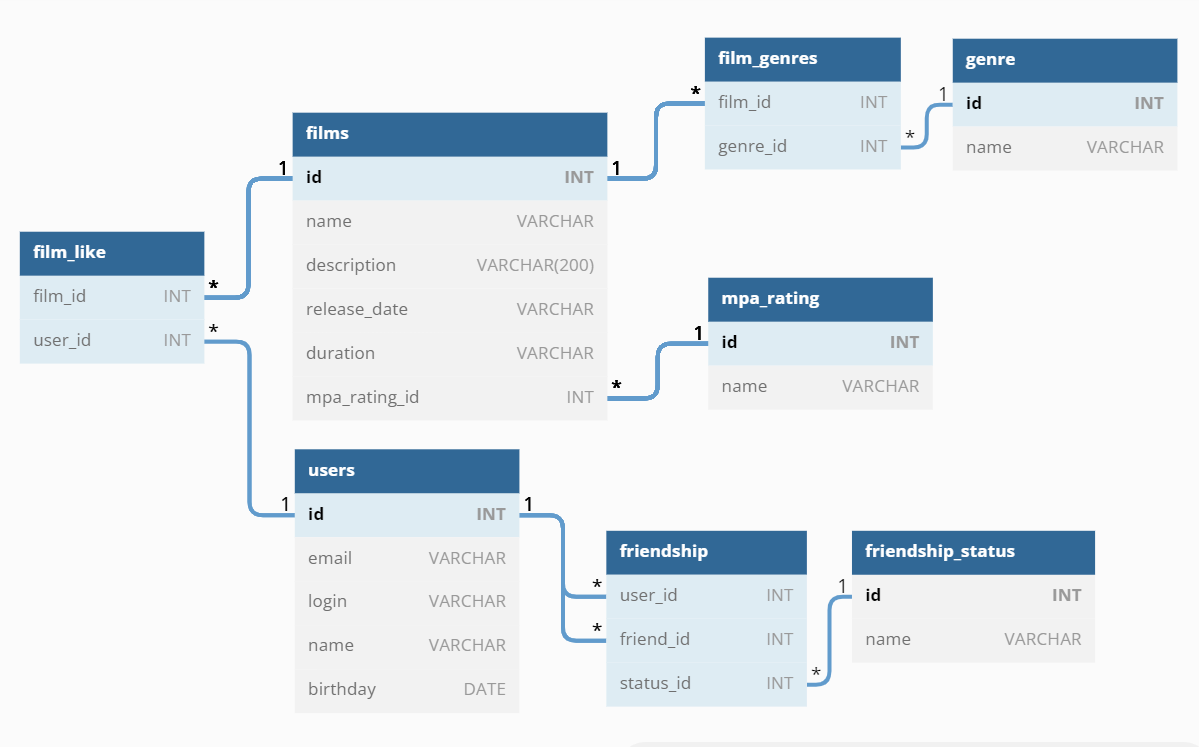
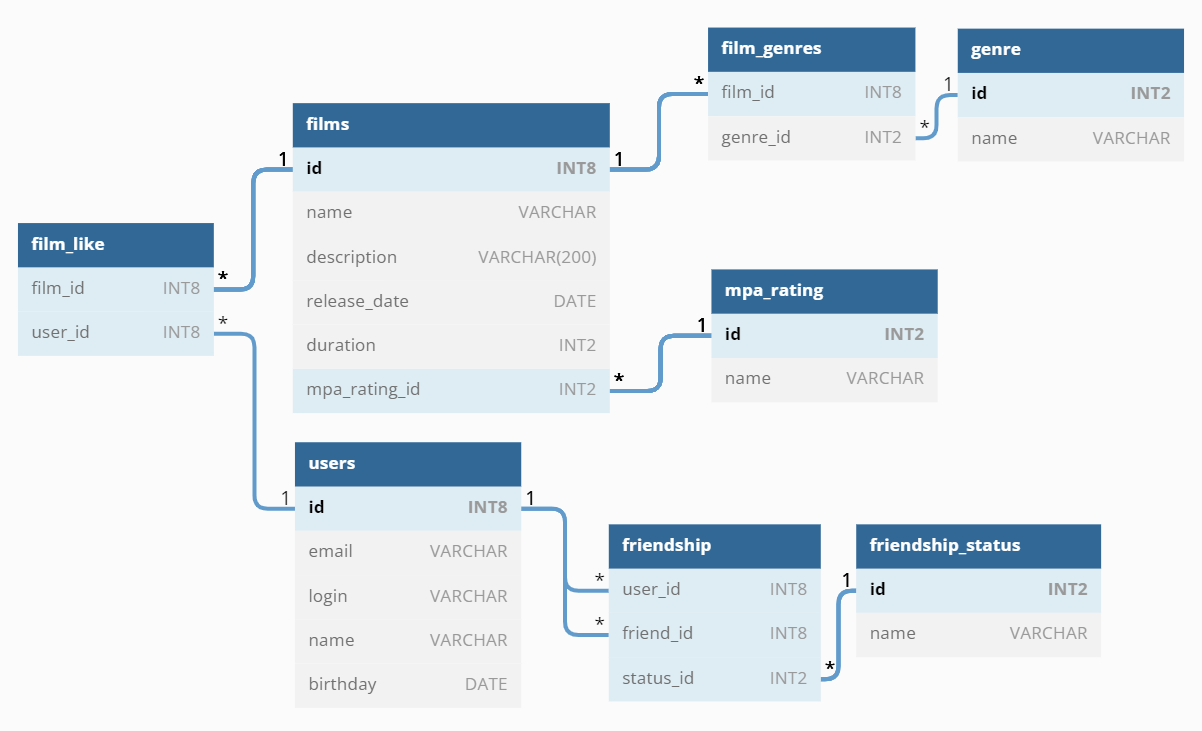
fix: устранить замечания ревьюера (Андрей Скоробогатов)

diff --git a/README.md b/README.md
@@ -4,6 +4,74 @@
 
 > ![Filmorate.png](images/Filmorate.png)
 
+## Текстовая часть диаграммы:
+
+```
+Table "users" {
+  "id" INT8 [pk]
+  "email" VARCHAR [unique, not null]
+  "login" VARCHAR [unique, not null]
+  "name" VARCHAR
+  "birthday" DATE
+}
+
+Table "friendship_status" {
+  "id" INT2 [pk]
+  "name" VARCHAR [unique, not null]
+}
+
+Table "friendship" {
+  "user_id" INT8 [unique, not null]
+  "friend_id" INT8 [unique, not null]
+  "status_id" INT2 [unique, not null]
+}
+
+Table "mpa_rating" {
+  "id" INT2 [pk]
+  "name" VARCHAR [unique, not null]
+}
+
+Table "films" {
+  "id" INT8 [pk]
+  "name" VARCHAR [unique, not null]
+  "description" VARCHAR(200) [not null]
+  "release_date" DATE
+  "duration" INT2
+  "mpa_rating_id" INT2 [not null]
+}
+
+Table "genre" {
+  "id" INT2 [pk]
+  "name" VARCHAR [unique, not null]
+}
+
+Table "film_genres" {
+  "film_id" INT8 [unique, not null]
+  "genre_id" INT2 [unique, not null]
+}
+
+Table "film_like" {
+  "film_id" INT8 [unique, not null]
+  "user_id" INT8 [unique, not null]
+}
+
+Ref:"users"."id" < "friendship"."user_id"
+
+Ref:"users"."id" < "friendship"."friend_id"
+
+Ref:"friendship_status"."id" < "friendship"."status_id"
+
+Ref:"mpa_rating"."id" < "films"."mpa_rating_id"
+
+Ref:"films"."id" < "film_genres"."film_id"
+
+Ref:"genre"."id" < "film_genres"."genre_id"
+
+Ref:"films"."id" < "film_like"."film_id"
+
+Ref:"users"."id" < "film_like"."user_id"
+```
+
 ## Описание:
 
 1) Основные сущности проекта - пользователи (таблица users) и фильмы (таблица films).
